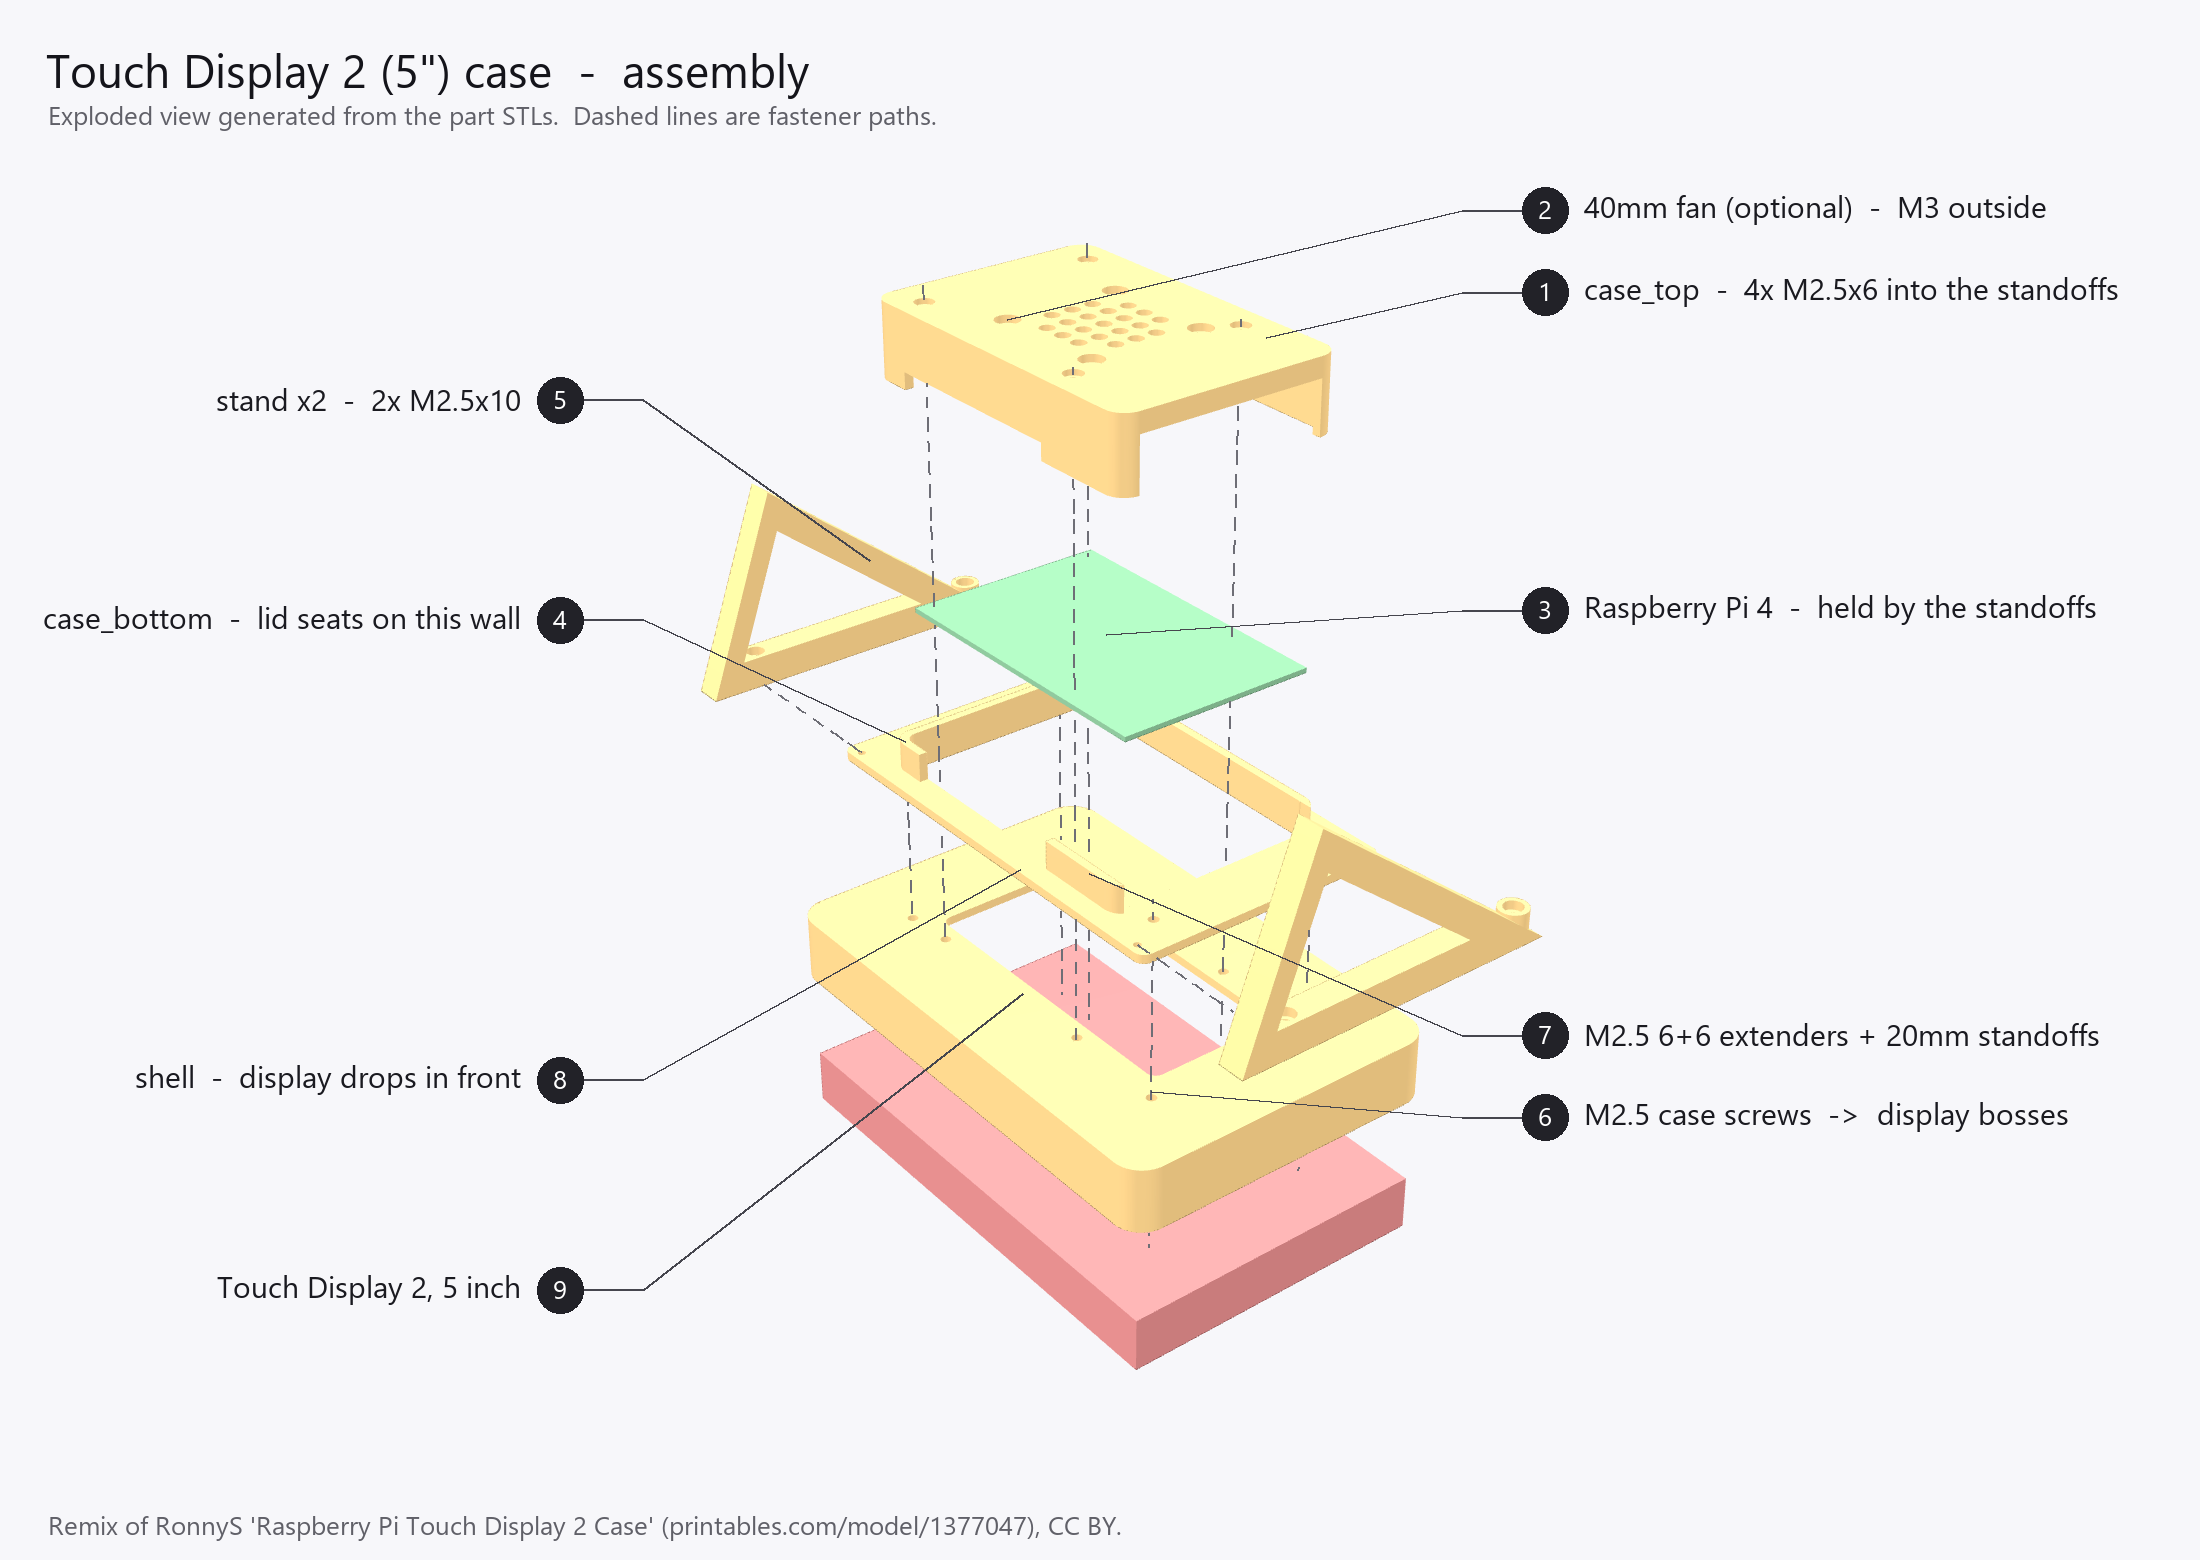
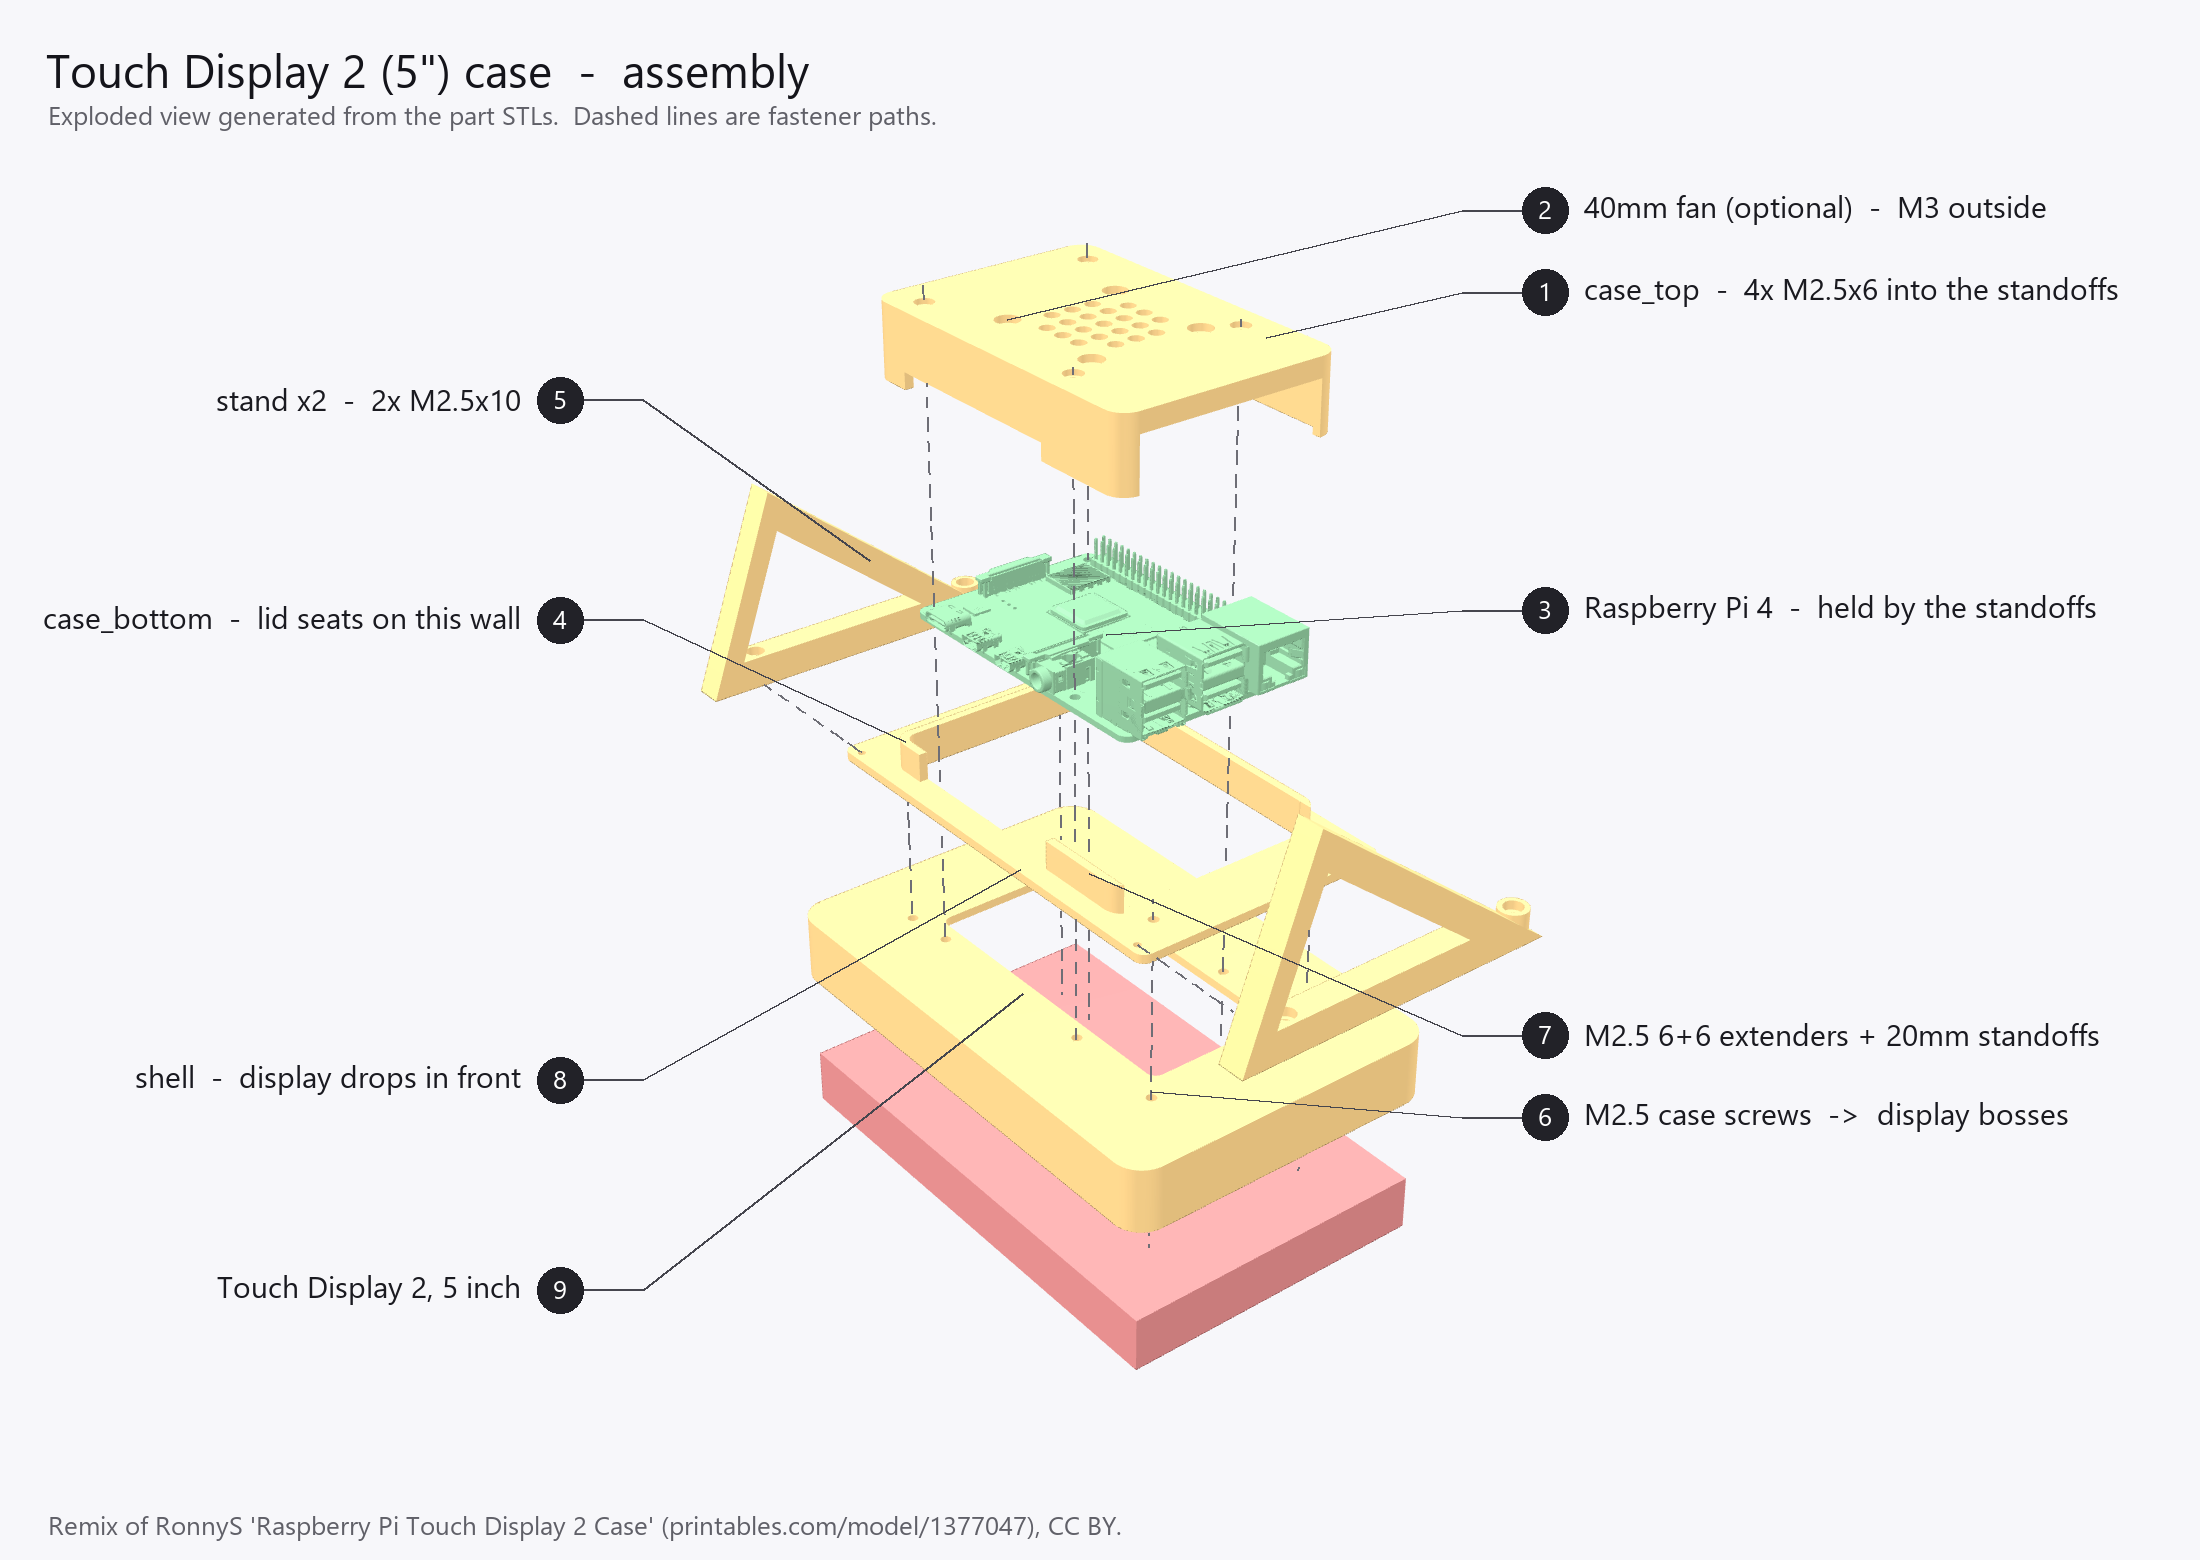
Use a detailed Pi 4B model in the assembly diagram
The placeholder slab did not show which way round the board goes. With
the real model the USB/Ethernet stack and GPIO header are visible, so the
port apertures and orientation are self-evident.

It also validated the design independently: the model drops onto the
calculated position with no adjustment, and puts the USB can tops at
Z 23.0 against the 23.4 assumed, and the through-hole solder legs 2.9mm
below the PCB - the reason the Pi cannot sit flat and the 6+6 extenders
are needed.

The model is CC0 and lives in the gitignored reference/ folder, so the
script falls back to a plain board when it is absent and anyone cloning
the repo can still regenerate the diagram.

Changed region(s): [[0.4327, 0.3385, 0.6182, 0.4923]]

diff --git a/case/assembly_diagram.py b/case/assembly_diagram.py
@@ -14,6 +14,7 @@ Assembly frame: Z = 0 at the shell back plate's OUTER face, +Z rearward
 """
 
 import math
+import os
 
 import numpy as np
 import pyrender
@@ -83,6 +84,19 @@ _stand_perm = np.array([[0, 0, 1, 0],
                         [0, 1, 0, FACE_Z0],
                         [0, 0, 0, 1]], dtype=float)
 
+# A detailed Pi 4B model makes a far clearer diagram than a bare slab, but it
+# is third-party and lives in the gitignored reference/ folder, so fall back to
+# a plain board for anyone who does not have it.
+# Its frame is X = long axis, Y = height, Z = short axis, PCB bottom at Y = 0;
+# rotating +90 about X and shifting to the board centre lands it exactly on the
+# designed position (x -41.2..43.8, y +-28, PCB bottom z 6.0).
+PI_STL = os.path.join("reference", "Raspberry Pi 4 Model B.stl")
+if os.path.exists(PI_STL):
+    pi_part = load(PI_STL, tr(1.3, 0.0, PI_Z0) @ rot("x", 90))
+else:
+    pi_part = box(PI_W, PI_H, PI_T, PI_X0 + PI_W / 2, PI_Y0 + PI_H / 2, PI_Z0)
+    print("note: reference Pi model not found - using a plain board")
+
 PARTS = [
     ("Touch Display 2 (5\")", box(DISP_W, DISP_H, DISP_D, 0, 0, -18.4),
      tr(z=EX_DISPLAY), (0.72, 0.24, 0.24)),
@@ -90,9 +104,7 @@ PARTS = [
      tr(z=EX_SHELL), (0.93, 0.62, 0.24)),
     ("case_bottom", load("case_bottom.stl", np.eye(4)),
      tr(z=EX_BOTTOM), (0.93, 0.62, 0.24)),
-    ("Raspberry Pi 4", box(PI_W, PI_H, PI_T, PI_X0 + PI_W / 2,
-                           PI_Y0 + PI_H / 2, PI_Z0),
-     tr(z=EX_PI), (0.24, 0.52, 0.30)),
+    ("Raspberry Pi 4", pi_part, tr(z=EX_PI), (0.24, 0.52, 0.30)),
     ("case_top", load("case_top.stl", tr(z=LID_Z_OUTER) @ rot("y", 180)),
      tr(z=EX_TOP), (0.93, 0.62, 0.24)),
     ("stand (x2)", load("stand.stl", tr(x=STAND_X - LEG_W / 2) @ _stand_perm),
